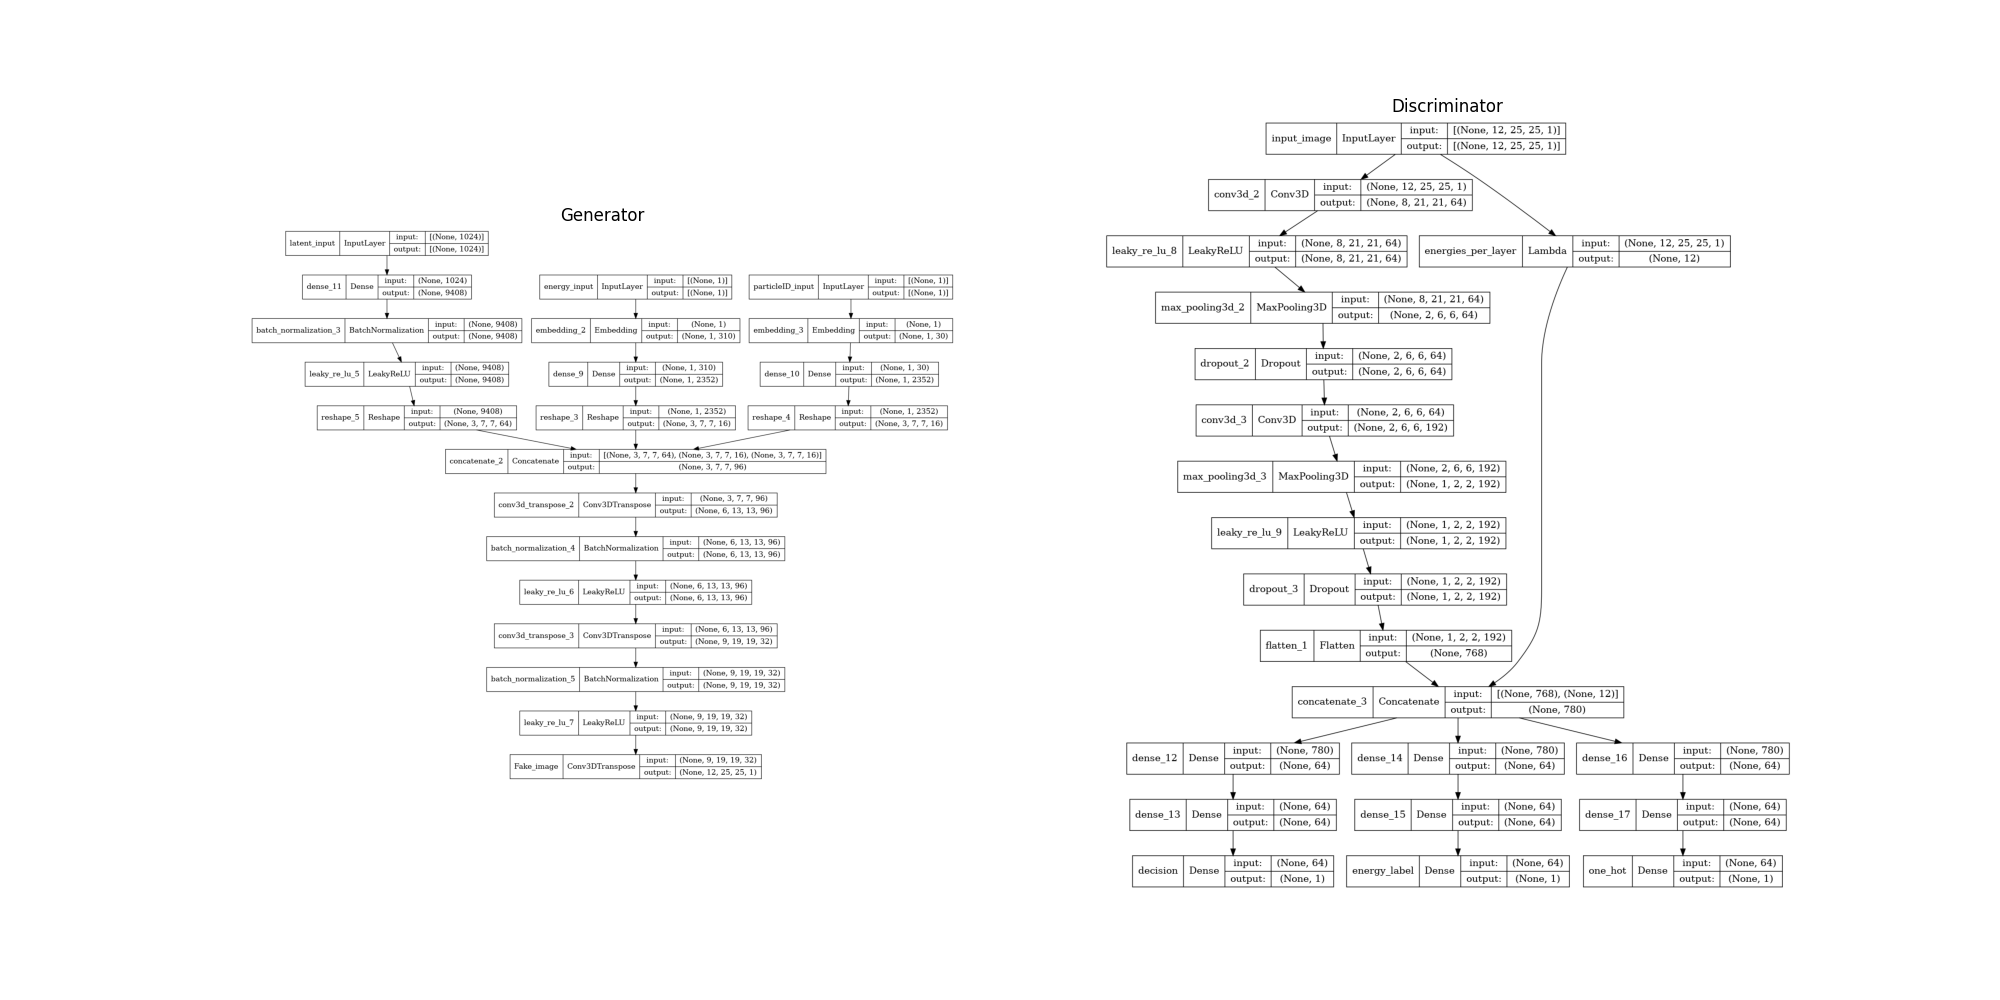
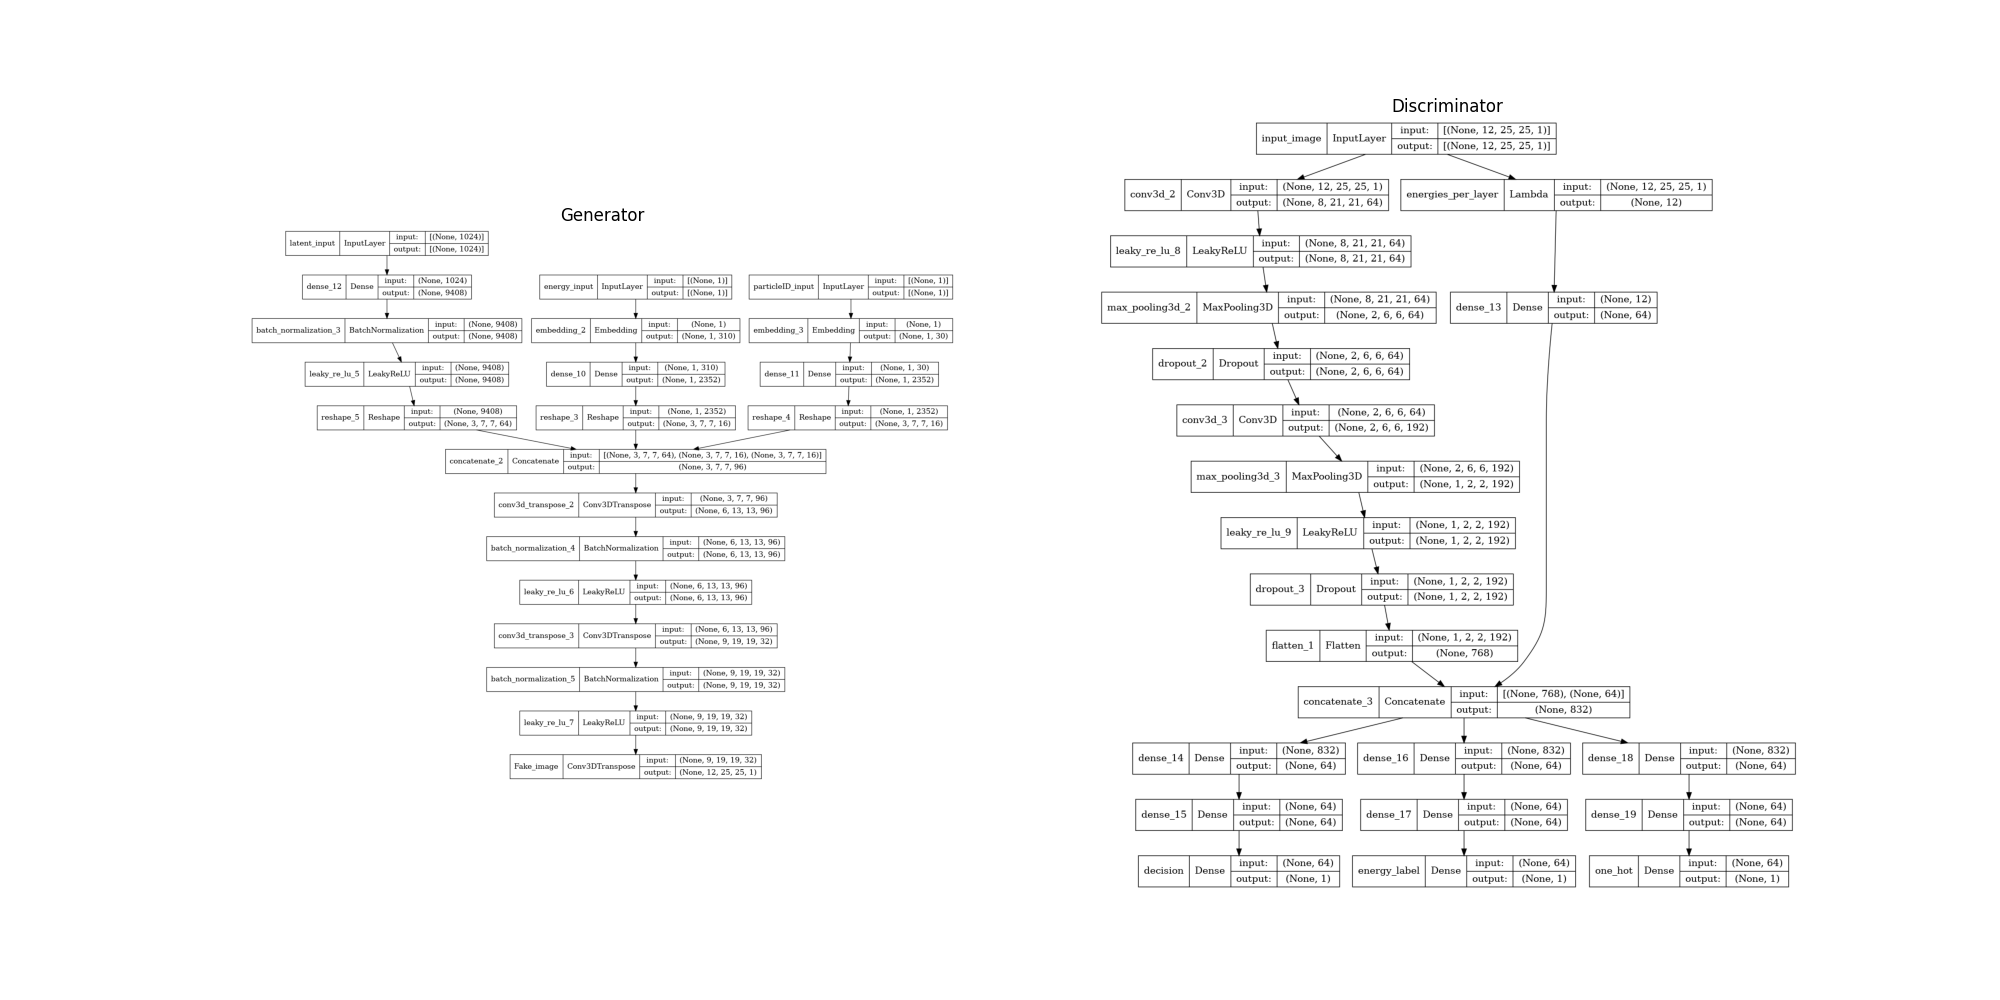
added energy per layer in discriminator

Changed region(s): [[0.558, 0.465, 0.899, 0.899], [0.558, 0.124, 0.868, 0.434], [0.279, 0.372, 0.372, 0.403]]

diff --git a/EM_shower_simulator/make_models_D.py b/EM_shower_simulator/make_models_D.py
@@ -239,7 +239,7 @@ def make_discriminator_model():
     in_image = Input(shape=GEOMETRY, name="input_image")
 
     energies = Lambda(energies_per_layer, name="energies_per_layer")(in_image)
-
+    energies = Dense(N_FILTER, activation="relu")(energies)
     # minibatch = Lambda(minibatch_stddev_layer, name="minibatch")(in_image)
     # logger.info(f"Minibatch shape: {minibatch.get_shape()}")
 
